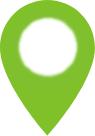
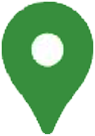
Master Commit

diff --git a/lib/code/DisplayPages/display_info.dart b/lib/code/DisplayPages/display_info.dart
@@ -297,20 +297,20 @@ class _UsersTableViewPageState extends State<UsersTableViewPage> {
                                   ],
                                 ),
                               ),
-                              const SizedBox(width: 6,),
-                              GestureDetector(
-                                onTap: () {
-                                  _delete(documentSnapshot.id);
-                                },
-                                child: Row(
-                                  children: [
-                                    Icon(
-                                      Icons.delete,
-                                      color: Colors.red[700],
-                                    ),
-                                  ],
-                                ),
-                              ),
+                              // const SizedBox(width: 6,),
+                              // GestureDetector(
+                              //   onTap: () {
+                              //     _delete(documentSnapshot.id);
+                              //   },
+                              //   child: Row(
+                              //     children: [
+                              //       Icon(
+                              //         Icons.delete,
+                              //         color: Colors.red[700],
+                              //       ),
+                              //     ],
+                              //   ),
+                              // ),
                             ],
                           )
                         ],

diff --git a/lib/code/Reuseables/map_component.dart b/lib/code/Reuseables/map_component.dart
@@ -1,12 +1,9 @@
 import 'dart:async';
-
 import 'package:flutter/material.dart';
-
 import 'package:municipal_track/code/MapTools/location_controller.dart';
 import 'package:municipal_track/code/MapTools/location_search_dialogue.dart';
 import 'package:google_maps_flutter/google_maps_flutter.dart';
 import 'package:get/get.dart';
-
 import 'map_user_badge.dart';
 
 ///The lat,long information from the DB per user when selected user
@@ -46,7 +43,7 @@ class _MapPageState extends State<MapPage> {
   void setSourceAndDestinationMarkerIcons() async{
     sourceIcon = await BitmapDescriptor.fromAssetImage(
       ImageConfiguration(devicePixelRatio: 2.0),
-      'assets/images/location/source_pin.png'
+      'assets/images/location/source_pin_android.png'
     );
     destinationIcon = await BitmapDescriptor.fromAssetImage(
         ImageConfiguration(devicePixelRatio: 2.0),
@@ -111,7 +108,7 @@ class _MapPageState extends State<MapPage> {
       _markers.add(Marker(
           markerId: const MarkerId('sourcePin'),
           position: currentLocation,
-          icon: sourceIcon
+          icon: sourceIcon,
       ));
 
       _markers.add(Marker(
